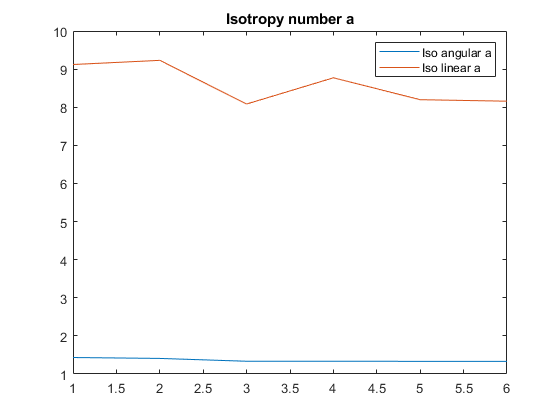
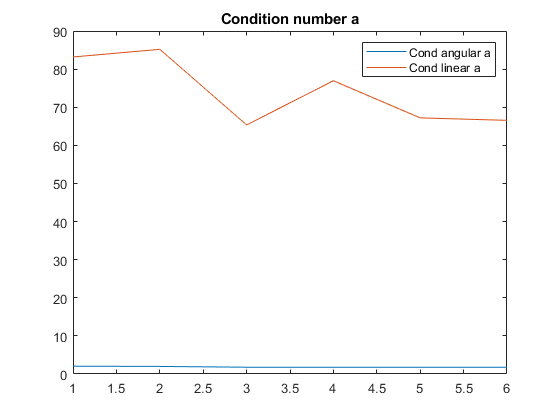
:D

diff --git a/THA4/PA4.m b/THA4/PA4.m
@@ -71,7 +71,7 @@ hold off
 xlim([-1 1]), ylim([-1 1]), zlim([-0.25 1.75])
 title('Original Robot Position')
 
-%%
+%% 
 
 %% PA.a
 % Here we perform inverse kinematics with joint limitation implemented.
@@ -128,11 +128,19 @@ title('Isotropy number a')
 hold off 
 legend('Iso angular a','Iso linear a ')
 
+%% 
+%%
 
 %%
 % Discusion - These results are actually quite nice. Only 7 iterations? I'll take it. It
 % should be noted that the tool was not oriented properly. Heck the robot
-% is a little funky. But hey, it works!
+% is a little funky. But hey, it works! The condition number and isotropy
+% numbers are a bit higher for linear side of things which kinda makes sense as you see the robot doesn't
+% much linear space to work with based on the end position and since it
+% took only like 7 iterations to get there it probably okay to assume that
+% the final shape is what it had to deal with more during the motion thus
+% the high linear condition and iso numbers
+%
 
 %% PA.b
 % Now we add a littl bit of *Pazzaz*. We can restrict the orientation to be
@@ -186,11 +194,15 @@ title('Isotropy number b')
 hold off 
 legend('Iso angular b','Iso linear b')
     
+%% 
+%%
 
 %%
 % Discusion - The iteration count nearly tripled to 20 iterations, yet the orientation
 % was preserved despite starting at the oposite orientation (tool was
-% upward). Much more confident with this one.
+% upward). Much more confident with this one. The condition and isotropy
+% number jumps at the start probably because its fighting a singualarity at
+% the start but it calms down and converges 
 
 %% PA.c - a
 % Now we add a pesky wall. I deefined it in 3 points, shown in the robot
@@ -242,14 +254,17 @@ title('Isotropy number Ca')
 hold off 
 legend('Iso angular Ca','Iso linear Ca')
 
-
+%%
+%%
 
 %%
 % Discusion - Man that wall came out of no where. Because I did not add any more
 % compensation, I expected the wall to mess with the simulation. The robot
 % does not even converge, which kinda sucks. You can see that the final q
 % hits the joint limits of the robot, most likely why we see this
-% divergence.
+% divergence. % It has major spikes as seen by the condition and isotropy graphs probably
+% because it hits the joint limit its a bit more jumpy trying to avoid the
+% forbidden region 
 
 %% PA.c - b
 % Now we add every restraint in the book. We are talking joint limits,
@@ -257,6 +272,7 @@ legend('Iso angular Ca','Iso linear Ca')
 n = [2 -1 2]';
 [q_des_cB,~, le_cB,cond_ang_Cb,cond_lin_Cb,iso_ang_Cb,iso_lin_Cb] = IK_part_cB(M,S,q0,J_limits,d_tool,p_goal,n);
 final_q = rad2deg(q_des_cB)
+%plots
 
 figure(14)
 plot(le_cB)
@@ -300,13 +316,18 @@ plot(iso_lin_Cb)
 title('Isotropy number Cb')
 hold off 
 legend('Iso angular Cb','Iso linear Cb')
-
+%%
 
 %%
 % Discusion - I'll be honest I was surprised with this one. Despite j6 hitting its
 % joint limit, the more constrained system was able to perform better.
 % Perhaps the combination of the constraints increased the robusteness of
-% the system. Regardless, converging in 49 iterations is pretty efficient.
+% the system. Regardless, converging in 49 iterations is pretty efficient. 
+% It has major spikes aswell but hey are alot less random as seen by the condition and isotropy graphs probably
+% because without the joint limit j6 was reached causing it to jump when that happened 
+%its a bit more jumpy trying to avoid the forbidden region 
+
+%%
 
 %% Part d - Configs
 % We tested 3 separate configs, in a row. Sounds like fun.
@@ -333,6 +354,12 @@ xline([length(le1) length(le1)+length(le2)], ':');
     hold off;
     title('Linear Error: Joint Restraints')
     ylim([0 1.2*max(le_a)])
+ %%
+ % The linear error is pretty smooth besides the jump at the start and end,
+ % right before converging, the fact that the linear error is low and there
+ % were no minimizing change in direction was imposed kinda impressed 
+ %
+    
 
 %%
 % Testing for part b
@@ -347,6 +374,14 @@ xline([length(le1) length(le1)+length(le2)], ':');
     hold off;
     title('Linear Error: Joint Restraints + orientation lock')
     ylim([0 1.2*max(le_b)])
+    
+%%
+ % The linear error is pretty smooth besides the jump at the start,
+ % it did better than its predecessor probably because of the minimization
+ % of change in direction of the tool
+ %
+        
+    
 
 %%
 % Testing for part c-a
@@ -361,6 +396,14 @@ xline([length(le1) length(le1)+length(le2)], ':');
     hold off;
     title('Linear Error: Joint Restraints + Virtual Wall')
     ylim([0 1.2*max(le_cA)])
+    
+%%
+ % The linear error is pretty wierd on this one i dont think inverse
+ % kinematics alone was sufficent to dodge a wall while all the other
+ % constraints were imposed, it probably ran into a bunch of singularity as
+ % you can see in the conditon and isotropy graphs
+ %
+    
 
 %%
 % Testing for part c-b
@@ -375,6 +418,12 @@ xline([length(le1) length(le1)+length(le2)], ':');
     hold off;
     title('Linear Error: All Restraints')
     ylim([0 1.2*max(le_cB)])
+    
+ % The linear error is pretty wierd on this one i dont think inverse
+ % kinematics alone was sufficent to dodge a wall while all the other
+ % constraints were imposed, it probably ran into a bunch of singularity as
+ % you can see in the conditon and isotropy graphs
+ %
 
 %% final plot
 figure(22)
@@ -386,3 +435,9 @@ plot(le_cB)
     ylabel('error [m]')
     xlabel('iteration')
     legend('Part a','Part b','Part c-a','Part c-b')
+    
+    
+%% 
+
+% all the errors side by side so you can kinda see which one performed the
+% worse under different conditions 
